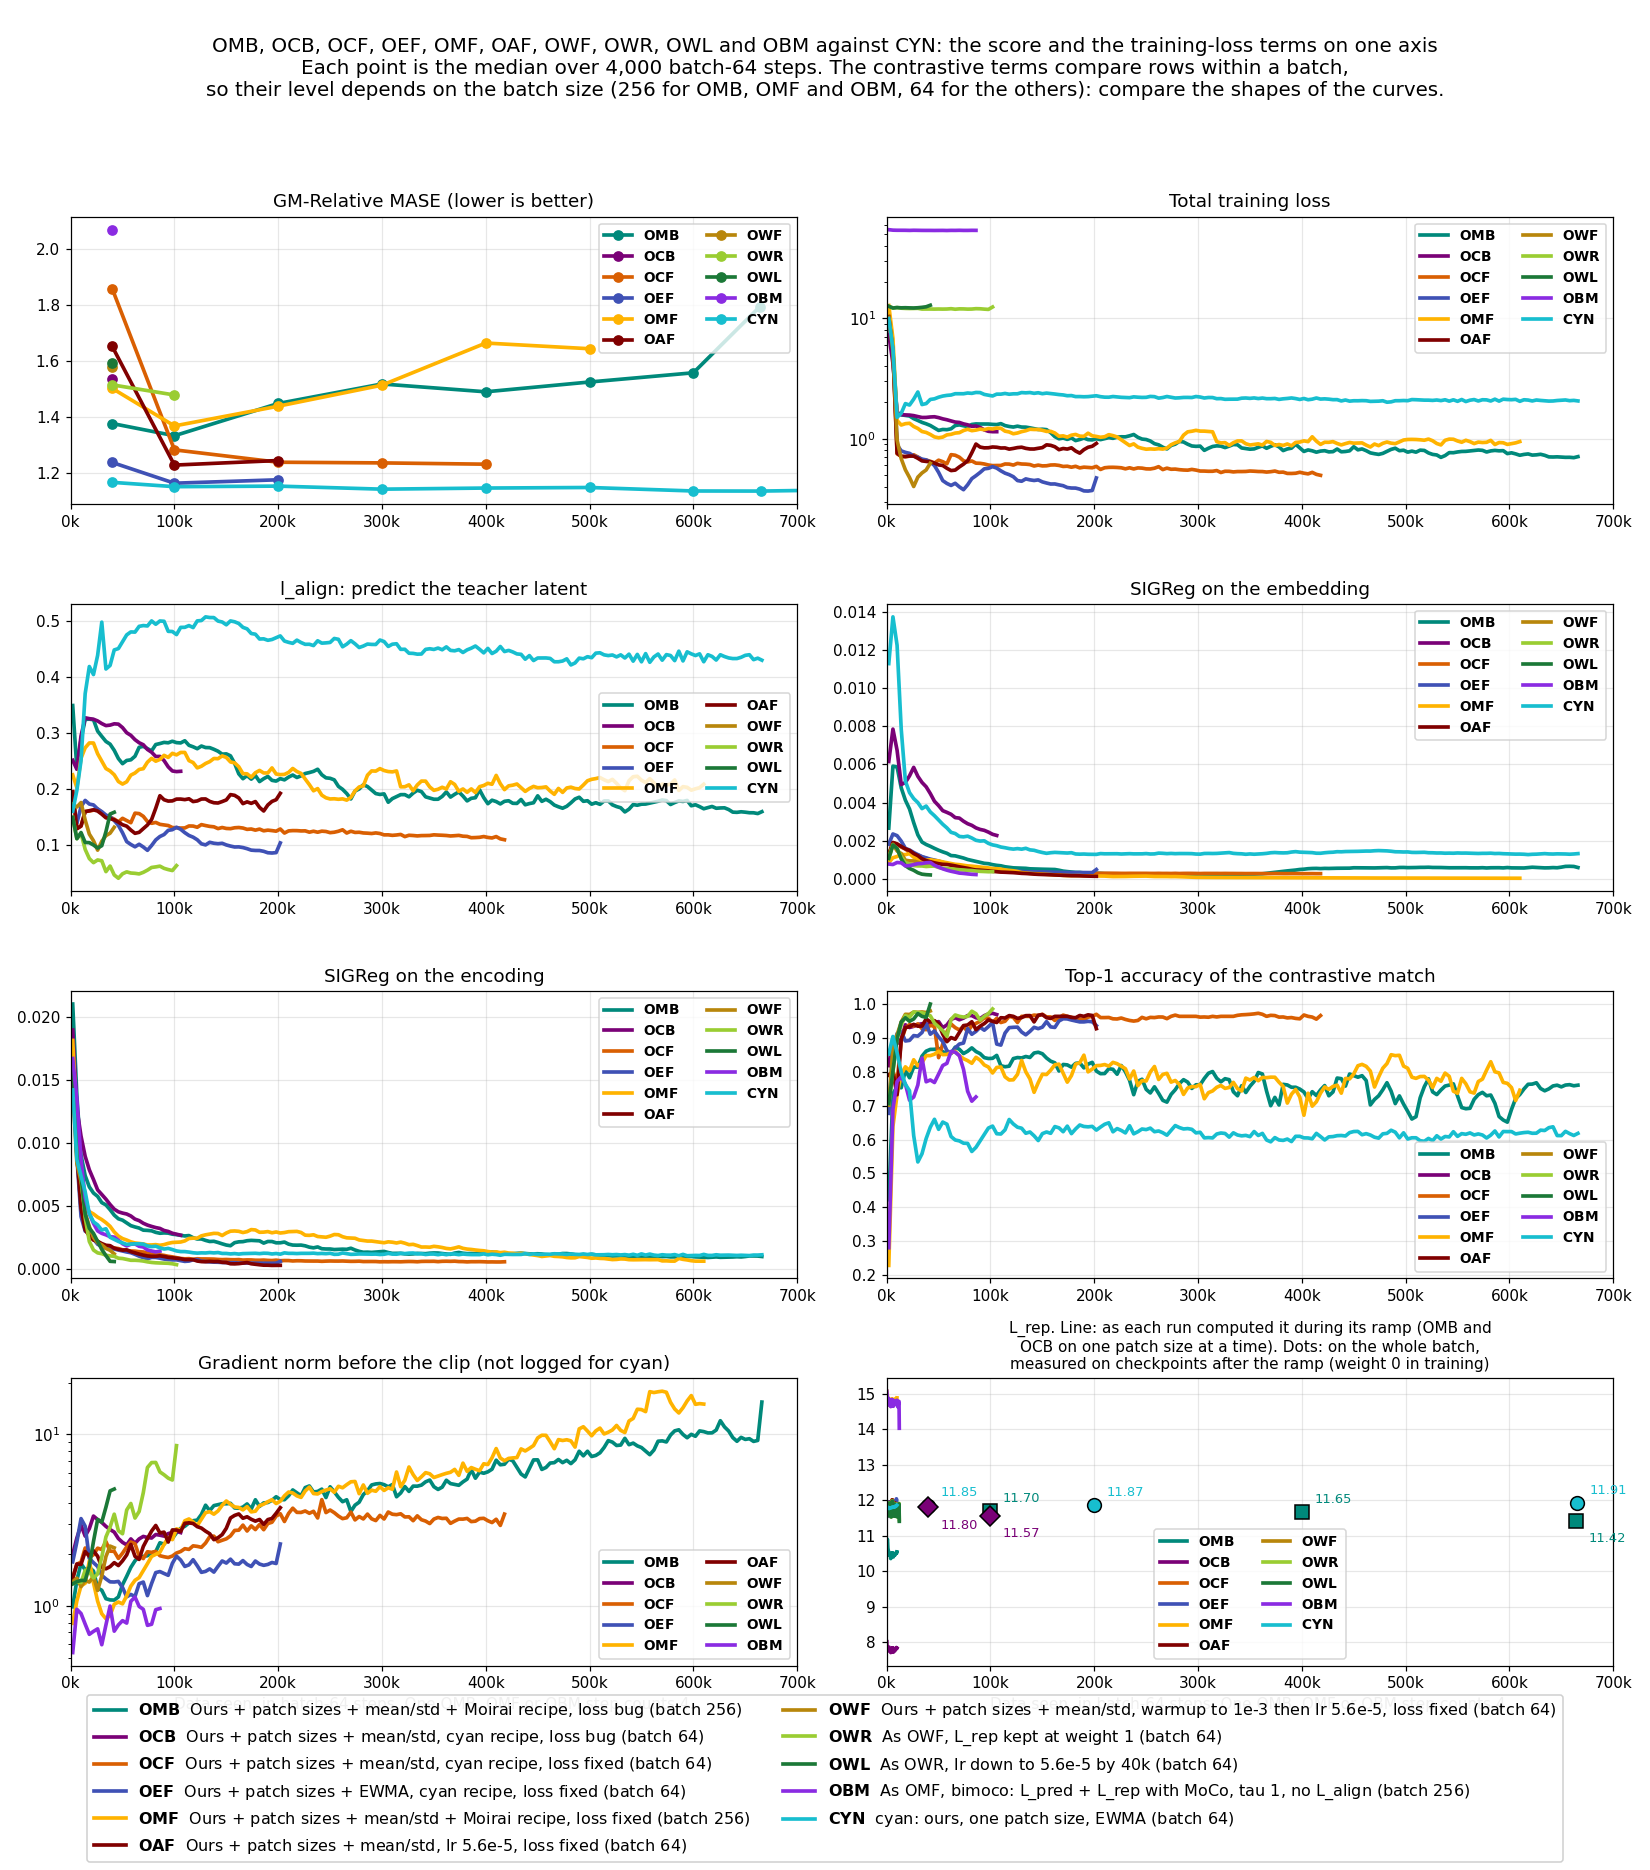
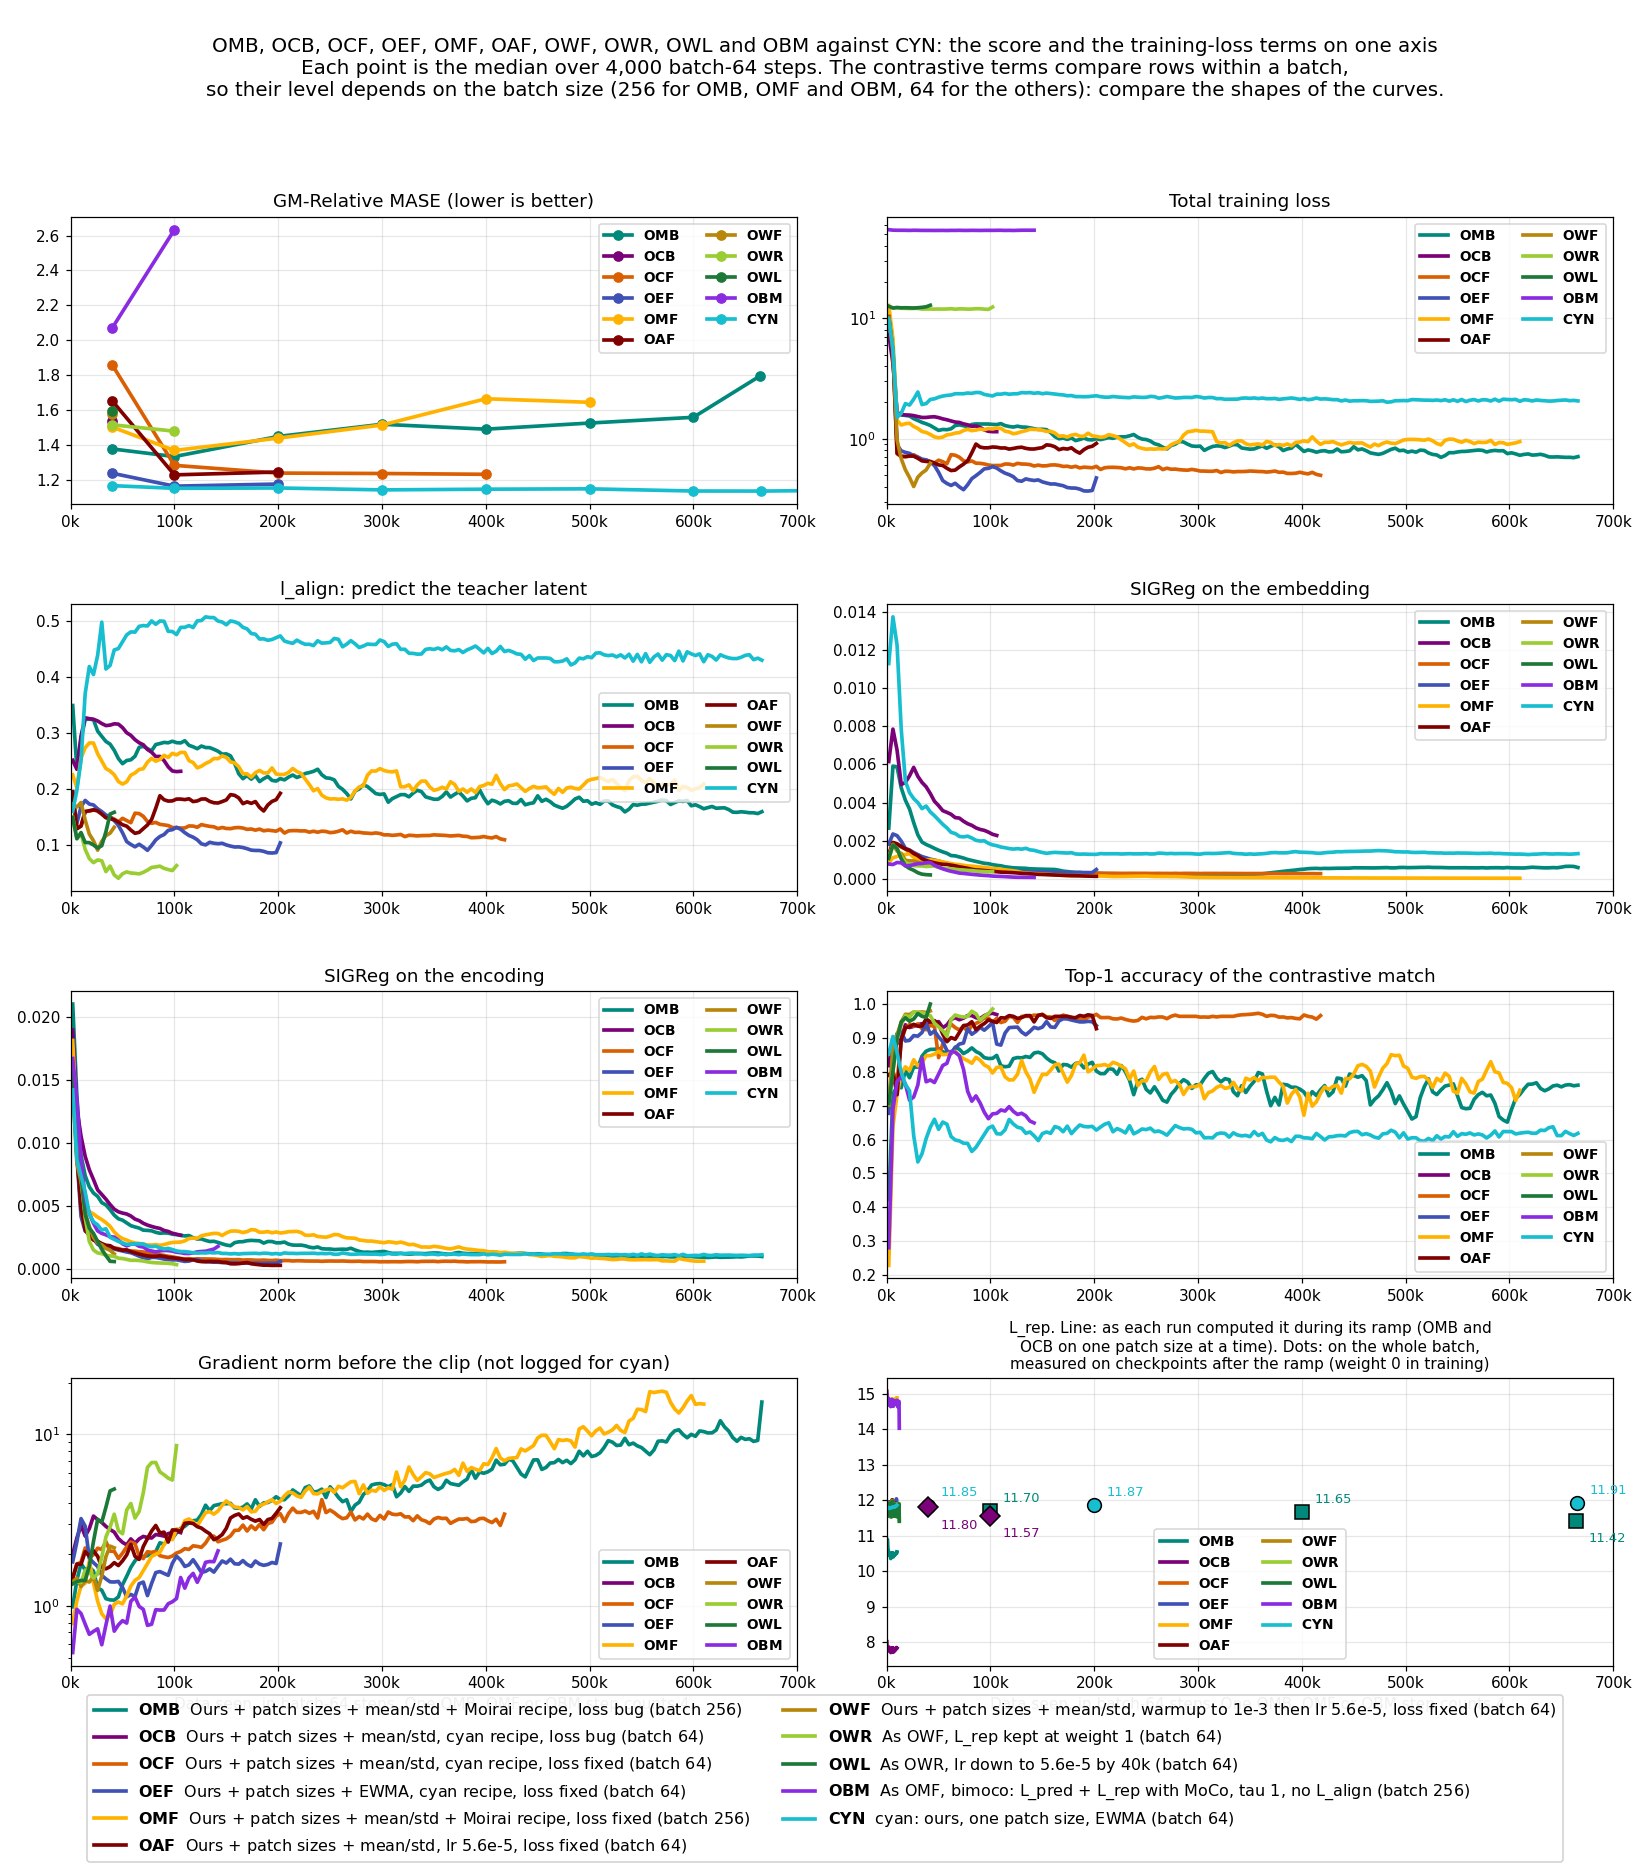
exp(#412): OBM (#412bm) scores 2.6336 at 25k
GM figure: a point off the chart whose neighbours are off the chart too
leaves the line, so no segment runs along the top edge.

Changed region(s): [[0.0618, 0.1551, 0.3709, 0.2791], [0.4018, 0.1861, 0.4636, 0.2171], [0.0927, 0.8374, 0.1236, 0.8684]]

diff --git a/reports/2026-09-06_moirai_small_size/scripts/plot_gm_rates.py b/reports/2026-09-06_moirai_small_size/scripts/plot_gm_rates.py
@@ -86,14 +86,23 @@ def load_points():
     return points
 
 
+def line_points(y, shown):
+    """The line's points: a point off the chart whose neighbours are off the
+    chart too leaves the line, so no segment runs along the top edge."""
+    off = [v > YMAX for v in y]
+    keep = [not off[i] or not all(off[max(i - 1, 0):i + 2]) for i in range(len(y))]
+    return [s if k else float("nan") for s, k in zip(shown, keep)]
+
+
 def draw_series(ax, arm, width, marker, points):
     """One run's line and its score labels. Returns the line."""
     x, y = zip(*sorted(points))
     x = [v * XSCALE.get(arm, 1) for v in x]
     shown = [min(v, YMAX - 0.004) for v in y]
     hue = colour(arm)
-    handle, = ax.plot(x, shown, line(arm), color=hue, lw=width, marker=marker, ms=8,
-                      zorder=3)
+    handle, = ax.plot(x, line_points(y, shown), line(arm), color=hue, lw=width,
+                      marker=marker, ms=8, zorder=3)
+    ax.plot(x, shown, linestyle="none", color=hue, marker=marker, ms=8, zorder=3)
     above = [(xi, yi) for xi, yi in zip(x, y) if yi > YMAX]
     if above:
         # One label lists the points off the chart and points at the last of

diff --git a/reports/2026-09-06_moirai_small_size/scripts/plot_loss_terms_412.py b/reports/2026-09-06_moirai_small_size/scripts/plot_loss_terms_412.py
@@ -50,7 +50,7 @@ SOURCES = {
     "cf412ow2": (["cf-412ow2/leg_40k"], "cf412ow2_k3_losses.csv", 1),
     "cf412or2": (["cf-412or2/leg_40k", "cf-412or2/leg_100k"], "cf412or2_k3_losses.csv", 1),
     "cf412ol2": (["cf-412ol2/leg_40k"], "cf412ol2_k3_losses.csv", 1),
-    "cf412bm": ([f"cf-412bm/leg_{k}k" for k in (10, 25)], "cf412bm_k3_losses.csv", 4),
+    "cf412bm": ([f"cf-412bm/leg_{k}k" for k in (10, 25, 50)], "cf412bm_k3_losses.csv", 4),
     CYAN: ([f"{CYAN}/arm6_v2_combab_alignT/leg_665k"],
            "cf393_arm6_v2_combab_alignT_cf373k3_cf412_" + CYAN + "_losses.csv", 1),
 }
